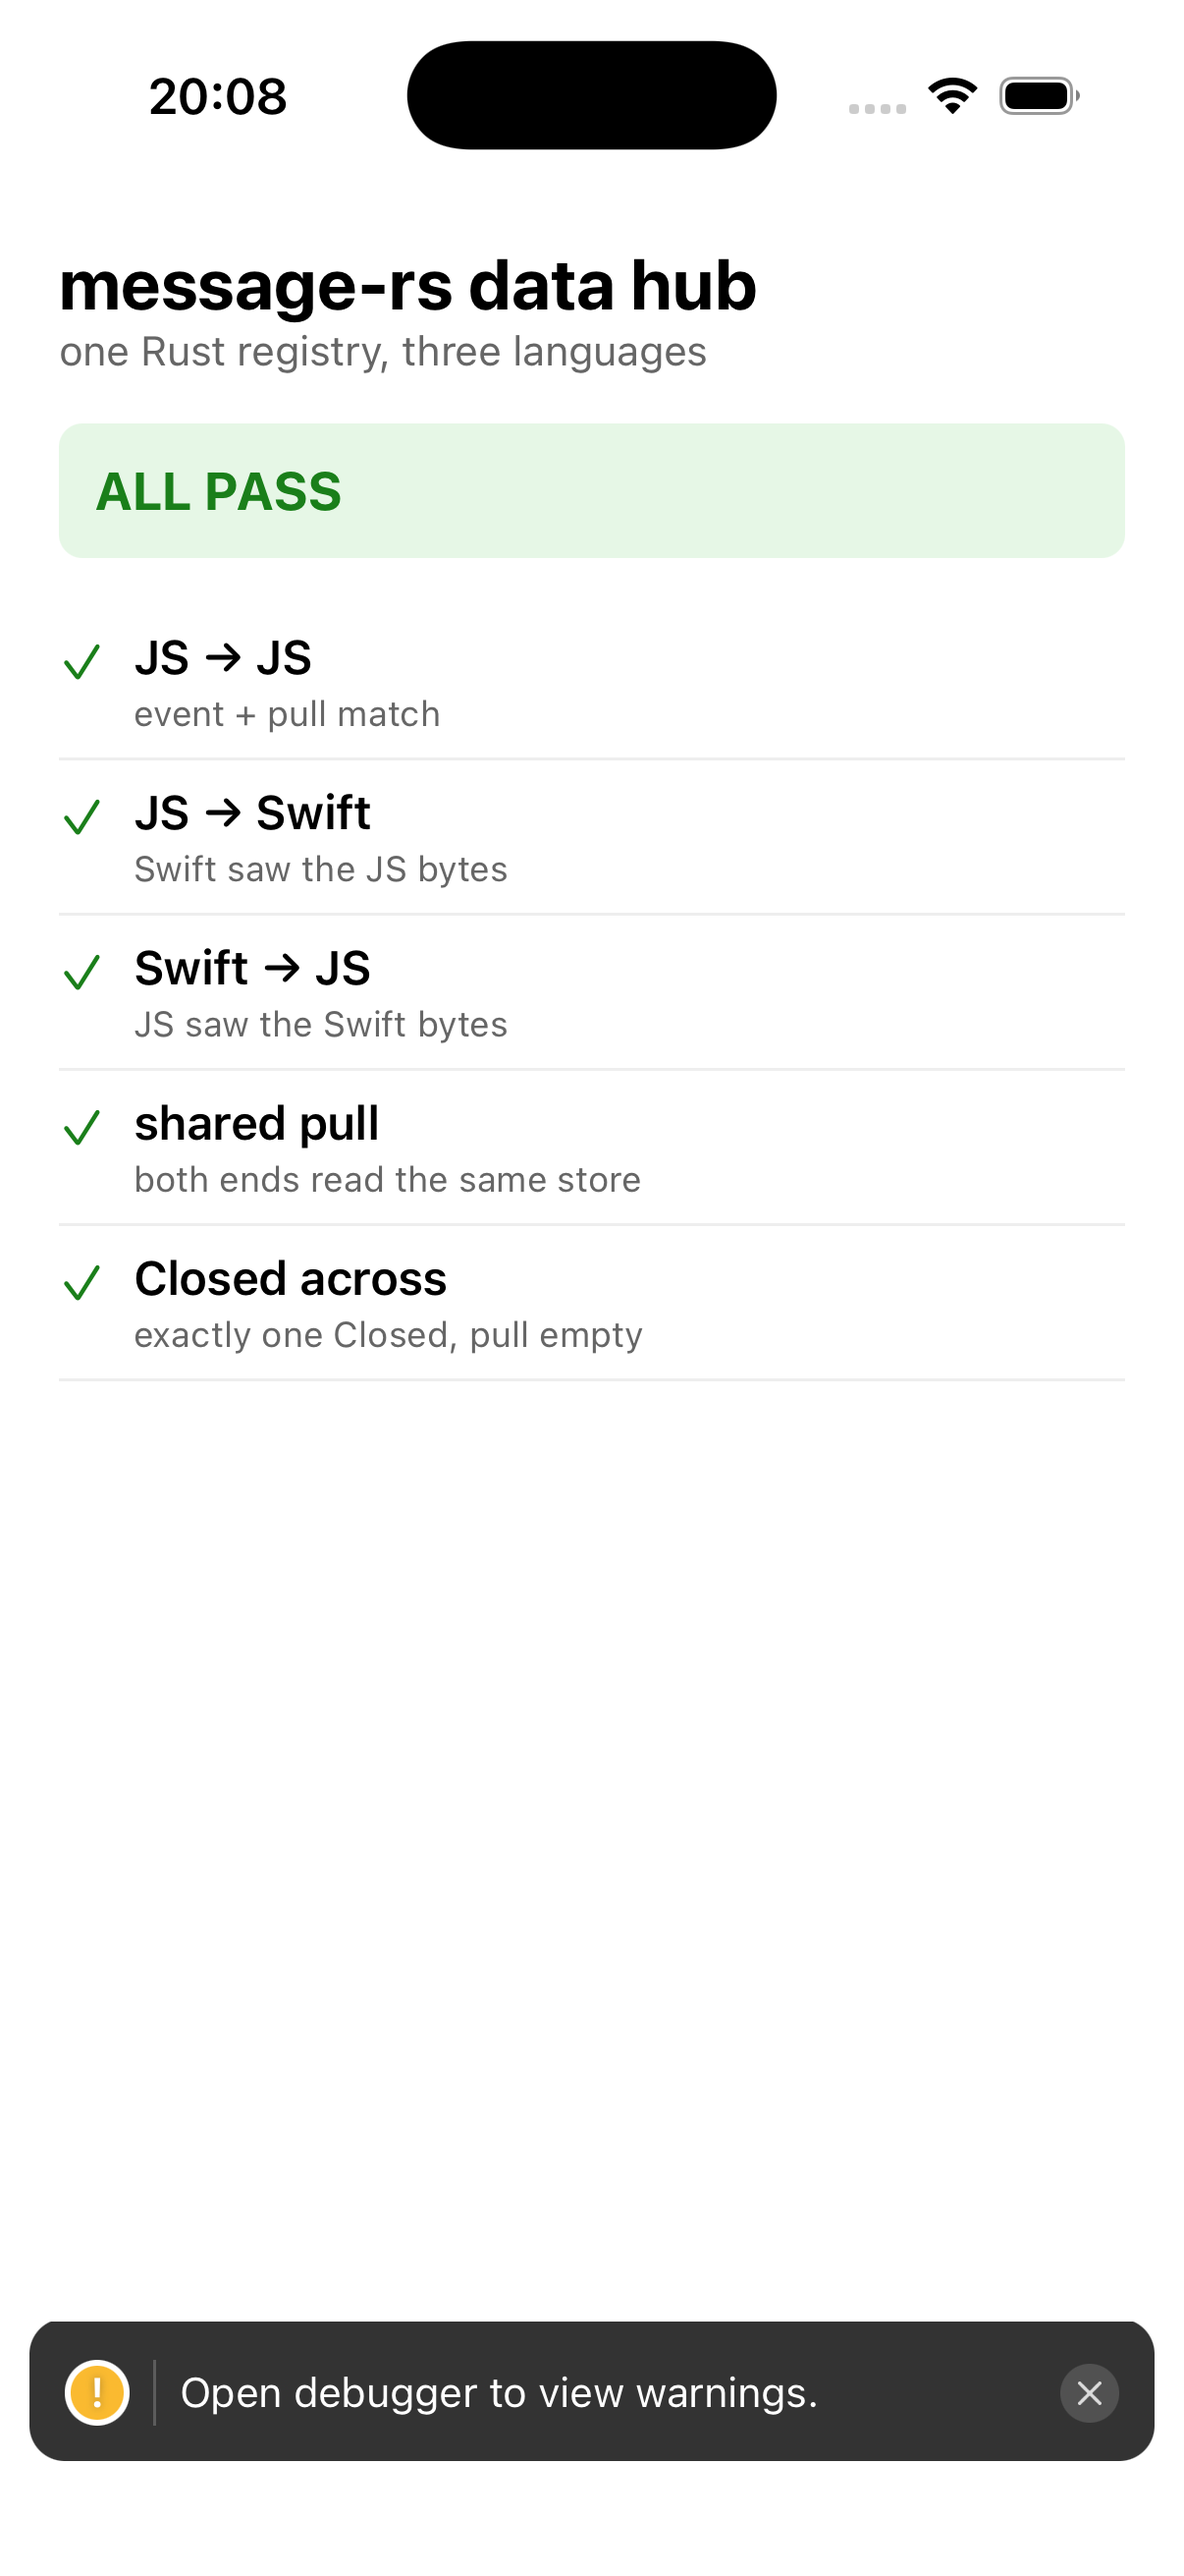
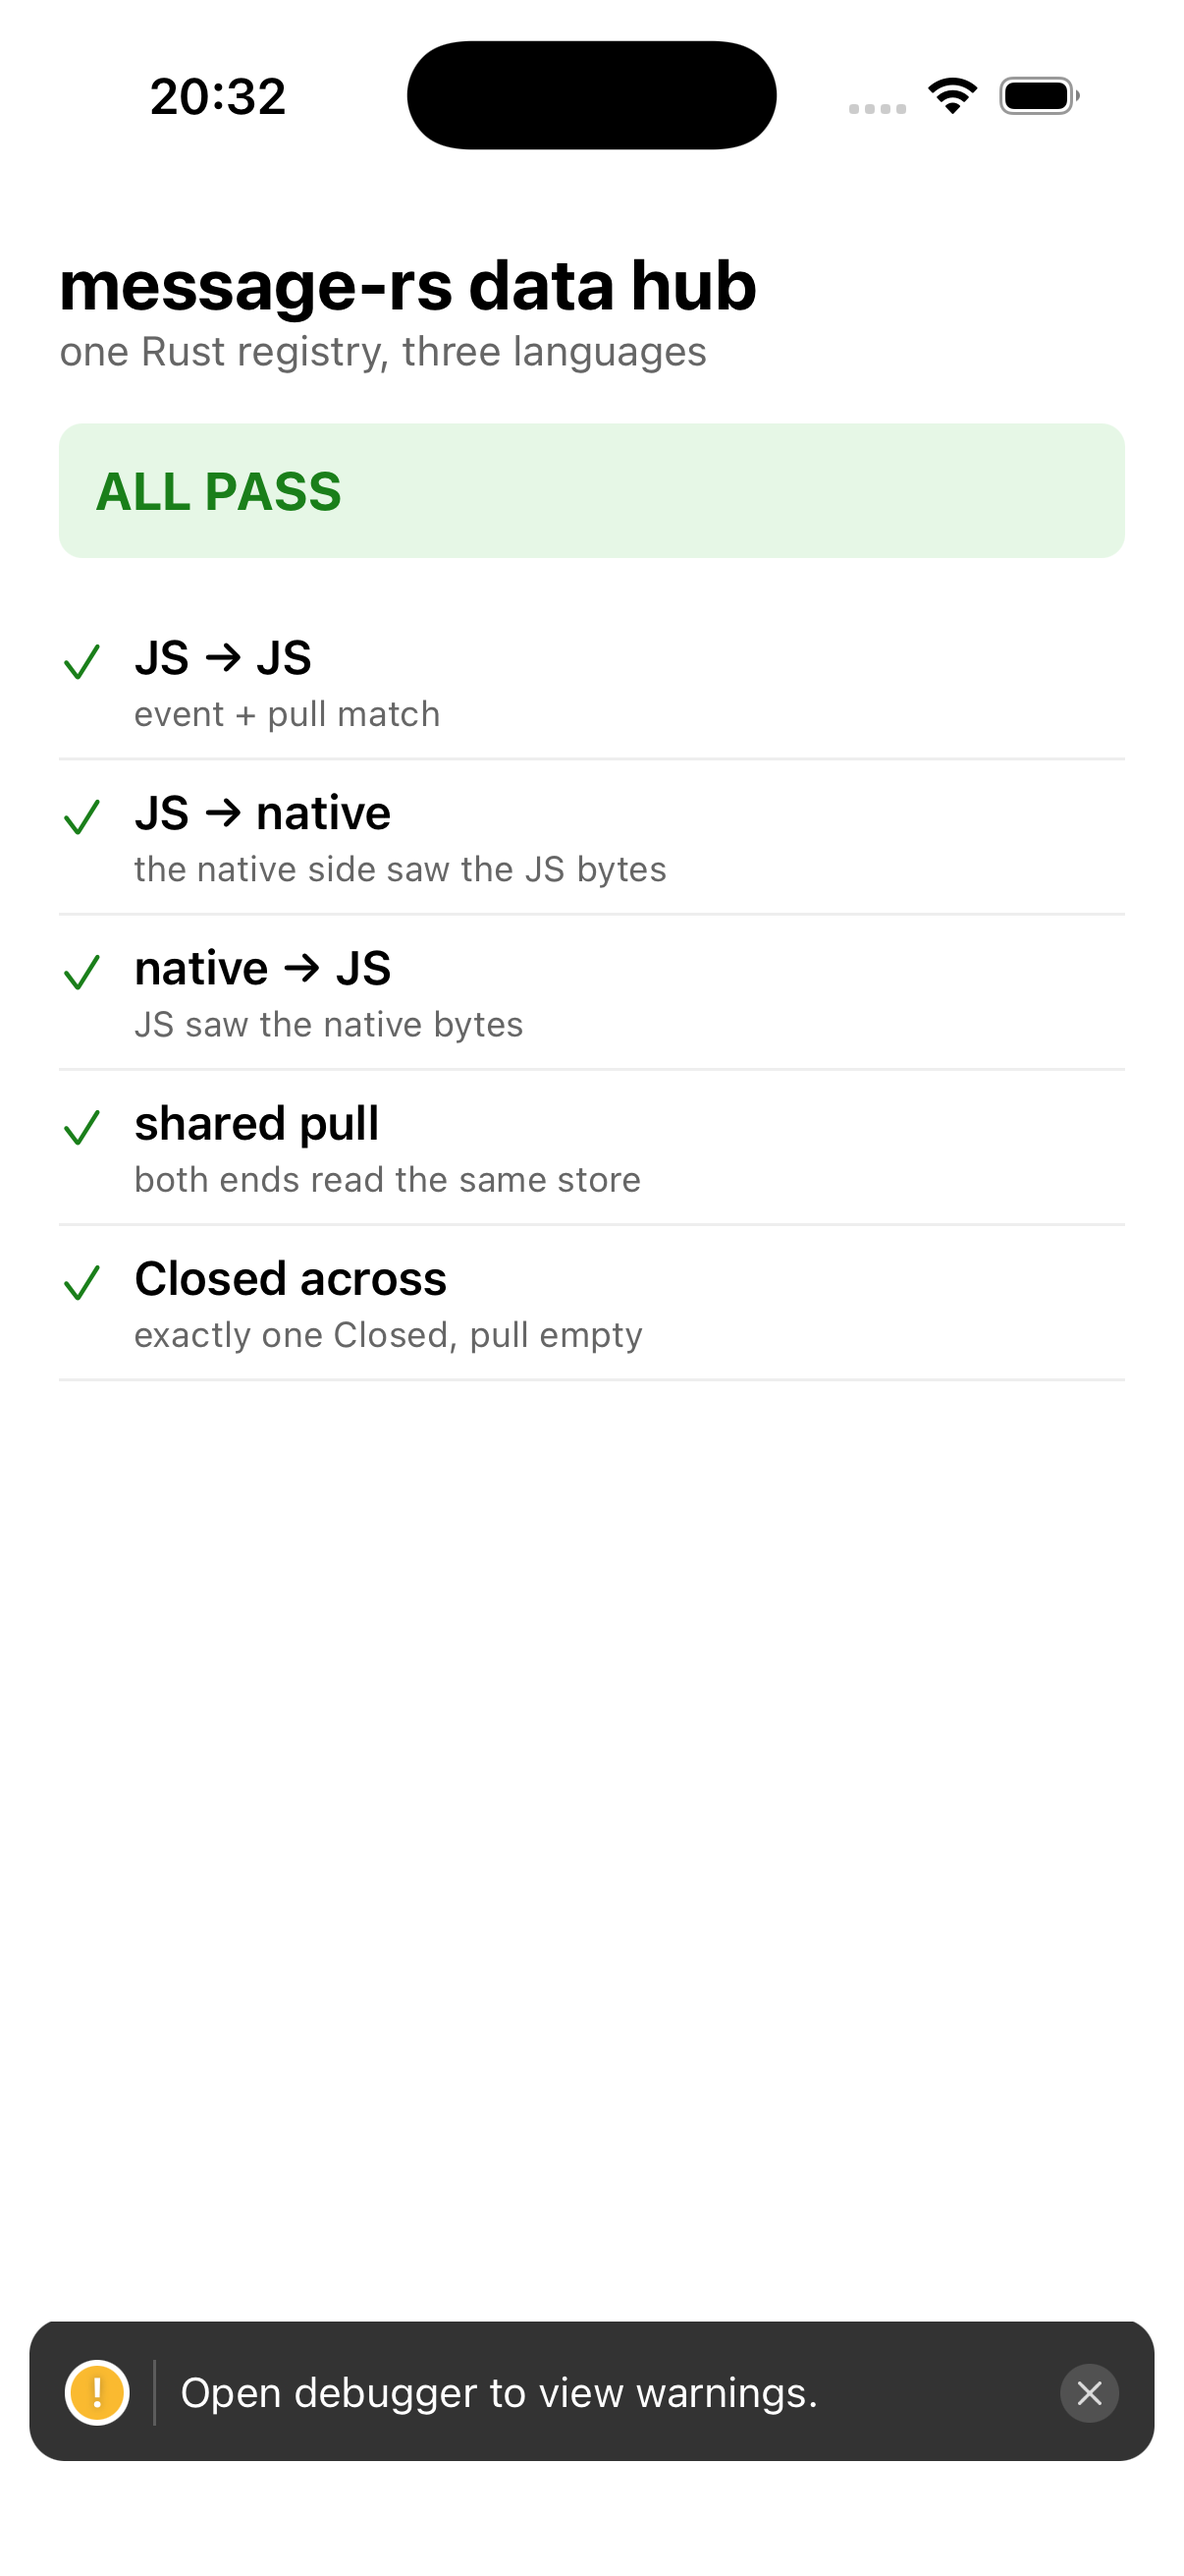
feat(example): Android passes too — one registry verified on both platforms
HUB_DEMO_RESULT 5/5 on Android (Kotlin native module) as on iOS (Swift). Scenario labels are
platform-neutral now, both screenshots refreshed, and README documents how to run either —
including the dev-server overrides both platforms need when 8081 is taken.

diff --git a/example/src/scenarios.ts b/example/src/scenarios.ts
@@ -59,9 +59,9 @@ async function jsToJs(): Promise<Result> {
   }
 }
 
-/** JS publishes, the Swift subscription fires and reports back through the RN event emitter. */
+/** JS publishes, the native subscription fires and reports back through the RN emitter. */
 async function jsToSwift(): Promise<Result> {
-  if (!native) return { name: 'JS → Swift', ok: false, detail: 'HubNative module missing' };
+  if (!native) return { name: 'JS → native', ok: false, detail: 'HubNative module missing' };
   const id = 9002;
   const seen: number[][] = [];
   const emitter = new NativeEventEmitter(NativeModules.HubNative);
@@ -76,16 +76,16 @@ async function jsToSwift(): Promise<Result> {
     const arrived = await until(() => seen.length >= 1);
     const ok = arrived && eq(seen[0], [7, 8, 9]);
     closePublisher(h);
-    return { name: 'JS → Swift', ok, detail: ok ? 'Swift saw the JS bytes' : `swift saw ${JSON.stringify(seen)}` };
+    return { name: 'JS → native', ok, detail: ok ? 'the native side saw the JS bytes' : `native saw ${JSON.stringify(seen)}` };
   } finally {
     listener.remove();
     native.unsubscribeNative(subHandle);
   }
 }
 
-/** Swift publishes, the JS channel receives — the reverse direction of the same registry. */
+/** The native side publishes, the JS channel receives — the reverse direction. */
 async function swiftToJs(): Promise<Result> {
-  if (!native) return { name: 'Swift → JS', ok: false, detail: 'HubNative module missing' };
+  if (!native) return { name: 'native → JS', ok: false, detail: 'HubNative module missing' };
   const id = 9003;
   const seen: number[][] = [];
   const off = channel(id, (e) => { if (!e.closed && e.bytes) seen.push(e.bytes); });
@@ -94,26 +94,26 @@ async function swiftToJs(): Promise<Result> {
     const arrived = await until(() => seen.length >= 1);
     const ok = arrived && eq(seen[0], [4, 5, 6]);
     native.closePublisher(handle);
-    return { name: 'Swift → JS', ok, detail: ok ? 'JS saw the Swift bytes' : `js saw ${JSON.stringify(seen)}` };
+    return { name: 'native → JS', ok, detail: ok ? 'JS saw the native bytes' : `js saw ${JSON.stringify(seen)}` };
   } finally {
     off();
   }
 }
 
-/** One store: Swift publishes, JS pulls the identical bytes (and the other way round). */
+/** One store: the native side publishes, JS pulls the identical bytes. */
 async function sharedPull(): Promise<Result> {
   if (!native) return { name: 'shared pull', ok: false, detail: 'HubNative module missing' };
   const id = 9004;
-  const handle = await native.publishFromNative(id, ValueKind.STRING, ascii('from swift'));
+  const handle = await native.publishFromNative(id, ValueKind.STRING, ascii('from native'));
   try {
     const jsPulled = pull(id);
-    const swiftPulled = await native.pullFromNative(id);
-    const expected = ascii('from swift');
-    const ok = !!jsPulled && eq(bytesOf(jsPulled), expected) && !!swiftPulled && eq(swiftPulled.bytes, expected);
+    const nativePulled = await native.pullFromNative(id);
+    const expected = ascii('from native');
+    const ok = !!jsPulled && eq(bytesOf(jsPulled), expected) && !!nativePulled && eq(nativePulled.bytes, expected);
     return {
       name: 'shared pull',
       ok,
-      detail: ok ? 'both ends read the same store' : `js=${jsPulled ? bytesOf(jsPulled) : null} swift=${swiftPulled?.bytes ?? null}`,
+      detail: ok ? 'both ends read the same store' : `js=${jsPulled ? bytesOf(jsPulled) : null} native=${nativePulled?.bytes ?? null}`,
     };
   } finally {
     native.closePublisher(handle);

diff --git a/example/README.md b/example/README.md
@@ -1,97 +1,54 @@
-This is a new [**React Native**](https://reactnative.dev) project, bootstrapped using [`@react-native-community/cli`](https://github.com/react-native-community/cli).
+# message-rs demo app
 
-# Getting Started
+A React Native app that proves the data hub's central claim: **JS, Swift and Kotlin share one
+Rust registry per process**. Five scenarios run on launch and render their verdicts; screenshots
+of both platforms passing are in `docs/`.
 
-> **Note**: Make sure you have completed the [Set Up Your Environment](https://reactnative.dev/docs/set-up-your-environment) guide before proceeding.
+| Scenario | What it proves |
+|---|---|
+| JS → JS | the baseline push/pull path in a real runtime |
+| JS → native | JS publishes, the native subscription receives the same bytes |
+| native → JS | the native side publishes, the JS channel receives |
+| shared pull | both ends read one store (identical bytes) |
+| Closed across | the last native publisher closes; JS sees Closed exactly once, pull goes empty |
 
-## Step 1: Start Metro
+`native` is Swift on iOS (`ios/HubNative`) and Kotlin on Android
+(`android/app/src/main/java/com/messagersdemo/hub`). Both link the **same** core the Rust turbo
+module uses — see `PLAN.md` for why that takes work (one copy per process).
 
-First, you will need to run **Metro**, the JavaScript build tool for React Native.
-
-To start the Metro dev server, run the following command from the root of your React Native project:
-
-```sh
-# Using npm
-npm start
-
-# OR using Yarn
-yarn start
-```
-
-## Step 2: Build and run your app
-
-With Metro running, open a new terminal window/pane from the root of your React Native project, and use one of the following commands to build and run your Android or iOS app:
-
-### Android
+## Run it
 
 ```sh
-# Using npm
-npm run android
+npm install
+npx react-native start --port 8088          # 8081 may be taken by another project
 
-# OR using Yarn
-yarn android
+# iOS
+cd ios && pod install && cd ..
+xcodebuild -workspace ios/MessageRsDemo.xcworkspace -scheme MessageRsDemo \
+  -configuration Debug -sdk iphonesimulator -destination 'id=<simulator-udid>' \
+  -derivedDataPath ios/build build
+xcrun simctl install <udid> ios/build/Build/Products/Debug-iphonesimulator/MessageRsDemo.app
+# RN 0.88 bakes the Metro port into its prebuilt framework; override it at runtime:
+xcrun simctl spawn <udid> defaults write org.reactjs.native.example.MessageRsDemo \
+  RCT_jsLocation -string 'localhost:8088'
+xcrun simctl launch <udid> org.reactjs.native.example.MessageRsDemo
+
+# Android (arm64 only unless more Rust targets are installed)
+cd android && ./gradlew :app:assembleDebug -PreactNativeArchitectures=arm64-v8a && cd ..
+adb install -r android/app/build/outputs/apk/debug/app-debug.apk
+adb reverse tcp:8088 tcp:8088
+adb shell run-as com.messagersdemo mkdir -p /data/data/com.messagersdemo/shared_prefs
+# point the app at our Metro (debug_http_host), then launch
+adb shell am start -n com.messagersdemo/.MainActivity
+adb logcat -s ReactNativeJS:V | grep HUB_DEMO_RESULT
 ```
 
-### iOS
+The app also prints one machine-readable line: `HUB_DEMO_RESULT <passed>/<total> [...]`.
 
-For iOS, remember to install CocoaPods dependencies (this only needs to be run on first clone or after updating native deps).
+## Notes
 
-The first time you create a new project, run the Ruby bundler to install CocoaPods itself:
-
-```sh
-bundle install
-```
-
-Then, and every time you update your native dependencies, run:
-
-```sh
-bundle exec pod install
-```
-
-For more information, please visit [CocoaPods Getting Started guide](https://guides.cocoapods.org/using/getting-started.html).
-
-```sh
-# Using npm
-npm run ios
-
-# OR using Yarn
-yarn ios
-```
-
-If everything is set up correctly, you should see your new app running in the Android Emulator, iOS Simulator, or your connected device.
-
-This is one way to run your app — you can also build it directly from Android Studio or Xcode.
-
-## Step 3: Modify your app
-
-Now that you have successfully run the app, let's make changes!
-
-Open `App.tsx` in your text editor of choice and make some changes. When you save, your app will automatically update and reflect these changes — this is powered by [Fast Refresh](https://reactnative.dev/docs/fast-refresh).
-
-When you want to forcefully reload, for example to reset the state of your app, you can perform a full reload:
-
-- **Android**: Press the <kbd>R</kbd> key twice or select **"Reload"** from the **Dev Menu**, accessed via <kbd>Ctrl</kbd> + <kbd>M</kbd> (Windows/Linux) or <kbd>Cmd ⌘</kbd> + <kbd>M</kbd> (macOS).
-- **iOS**: Press <kbd>R</kbd> in iOS Simulator.
-
-## Congratulations! :tada:
-
-You've successfully run and modified your React Native App. :partying_face:
-
-### Now what?
-
-- If you want to add this new React Native code to an existing application, check out the [Integration guide](https://reactnative.dev/docs/integration-with-existing-apps).
-- If you're curious to learn more about React Native, check out the [docs](https://reactnative.dev/docs/getting-started).
-
-# Troubleshooting
-
-If you're having issues getting the above steps to work, see the [Troubleshooting](https://reactnative.dev/docs/troubleshooting) page.
-
-# Learn More
-
-To learn more about React Native, take a look at the following resources:
-
-- [React Native Website](https://reactnative.dev) - learn more about React Native.
-- [Getting Started](https://reactnative.dev/docs/environment-setup) - an **overview** of React Native and how setup your environment.
-- [Learn the Basics](https://reactnative.dev/docs/getting-started) - a **guided tour** of the React Native **basics**.
-- [Blog](https://reactnative.dev/blog) - read the latest official React Native **Blog** posts.
-- [`@facebook/react-native`](https://github.com/facebook/react-native) - the Open Source; GitHub **repository** for React Native.
+- `hub-turbo` is a `file:` symlink into `../hub/turbo`; `metro.config.js` watches the repo root
+  so Metro can resolve it.
+- The wrapper sources are symlinked from `hub/swift` and `hub/kotlin` — one source of truth.
+- Neither surface ships its own Rust library here: the symbols come from the app's superlib
+  (`librust_app.a` on iOS, linked into `librustturbo.so` on Android).

diff --git a/example/PLAN.md b/example/PLAN.md
@@ -1,13 +1,14 @@
 # example/: the message-rs demo app — implementation plan
 
-**iOS result (2026-11-26): ALL PASS** — see `docs/ios-all-pass.png`. Five scenarios run on
-launch: JS→JS, JS→Swift, Swift→JS, shared pull (both ends read one store), Closed across
-languages (exactly once, pull empty afterwards). One Rust registry, verified at runtime.
-Android/Kotlin is the remaining half.
+**Both platforms pass (2026-11-26)** — `docs/ios-all-pass.png`, `docs/android-all-pass.png`.
+Five scenarios run on launch: JS→JS, JS→native, native→JS, shared pull (both ends read one
+store), Closed across languages (exactly once, pull empty afterwards). `native` is Swift on iOS
+and Kotlin on Android. One Rust registry per process, verified at runtime on both.
+See README.md for how to run it.
 
 Scope (settled with the user): a React Native app inside this repository that verifies **all
-three surfaces share one Rust registry**. Steps 0–2 are done for iOS; step 3's Android half and
-step 4/5 automation remain.
+three surfaces share one Rust registry**. Steps 0–3 are done on both platforms; what remains is
+step 4 (automating the run) and step 5 (whether any of it belongs in CI).
 
 ## Why our own demo (not jsi-rs's example)
 
@@ -132,6 +133,10 @@ This step is the real work; the app around it is scaffolding.
   Rust targets installed. For the demo, `-PreactNativeArchitectures=arm64-v8a` is enough.
 - Verified in `librustturbo.so` (arm64, unstripped): exactly one `Hub::shared::SHARED`, 28
   `Java_message_rs_hub_*` symbols and the Hub turbo anchor — one core, both surfaces.
+- Runtime: `HUB_DEMO_RESULT 5/5`. Like iOS, the app defaults to port 8081 (another project's
+  Metro here); point it at ours by writing `debug_http_host` into the app's SharedPreferences
+  (`adb shell run-as com.messagersdemo ...`) plus `adb reverse tcp:8088 tcp:8088`. Unlike iOS,
+  Android's JS console does reach `adb logcat -s ReactNativeJS`, which makes automation easy.
 
 ## App shape (after step 0)
 
